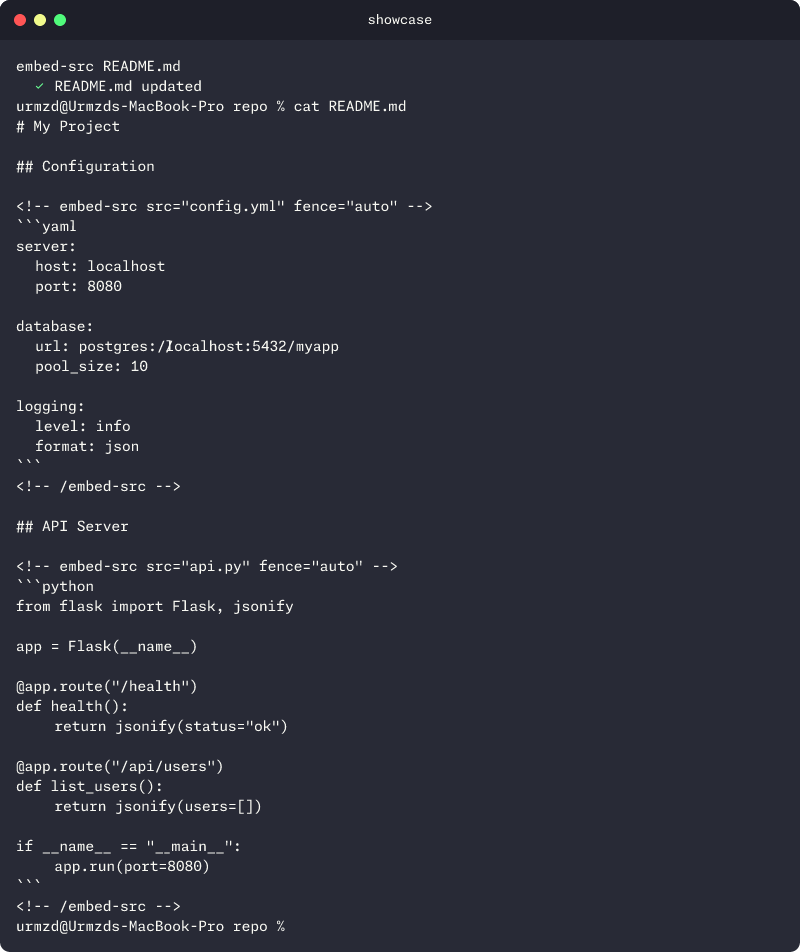
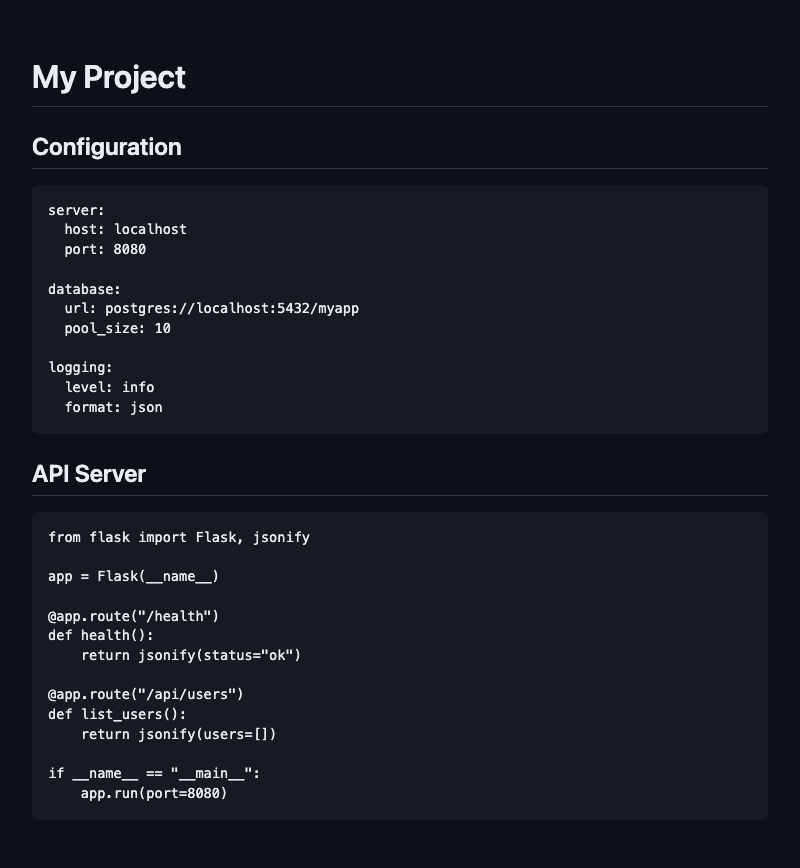
docs(showcase): switch teasr scenes to markdown variant
Use markdown scene type for before/after screenshots instead of
terminal recordings, producing cleaner rendered output.

diff --git a/showcase/demo/README.after.md b/showcase/demo/README.after.md
@@ -1,0 +1,40 @@
+# My Project
+
+## Configuration
+
+<!-- embed-src src="config.yml" fence="auto" -->
+```yaml
+server:
+  host: localhost
+  port: 8080
+
+database:
+  url: postgres://localhost:5432/myapp
+  pool_size: 10
+
+logging:
+  level: info
+  format: json
+```
+<!-- /embed-src -->
+
+## API Server
+
+<!-- embed-src src="api.py" fence="auto" -->
+```python
+from flask import Flask, jsonify
+
+app = Flask(__name__)
+
+@app.route("/health")
+def health():
+    return jsonify(status="ok")
+
+@app.route("/api/users")
+def list_users():
+    return jsonify(users=[])
+
+if __name__ == "__main__":
+    app.run(port=8080)
+```
+<!-- /embed-src -->

diff --git a/README.md b/README.md
@@ -175,7 +175,7 @@ jobs:
       - name: "Checkout repo"
         uses: actions/checkout@v4
       - name: "Embed code into files"
-        uses: urmzd/embed-src@v1.5.0
+        uses: urmzd/embed-src@v3
         with:
           files: "README.md"
 ```
